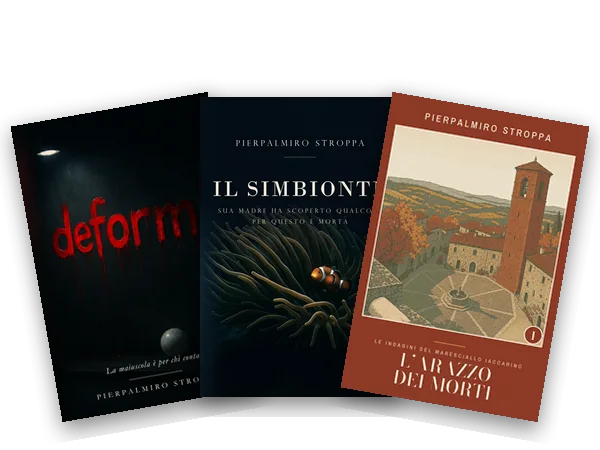
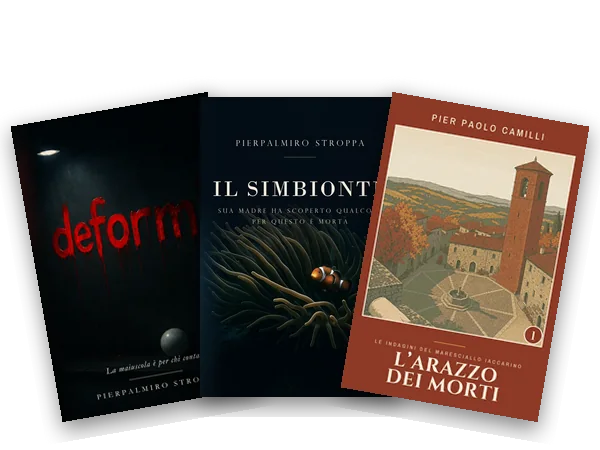
Aggiornamento del 15/11/2026

Changed region(s): [[0.63, 0.7778, 0.84, 0.9022], [0.69, 0.2489, 0.93, 0.3111]]

diff --git a/es/index.html b/es/index.html
@@ -32,7 +32,7 @@
 <meta name="twitter:card" content="summary_large_image">
 <link rel="preload" href="../font/EBGaramond-latin.woff2" as="font" type="font/woff2" crossorigin>
 <link rel="stylesheet" href="../ingresso.css?v=c2b1cbba">
-<script type="application/ld+json">{"@context":"https://schema.org","@graph":[{"@type":"WebSite","name":"Intrecci di Carta","alternateName":"Intrecci di Carta · Libros, juegos de cartas y videojuegos","url":"https://intreccidicarta.com/","inLanguage":"es"},{"@type":"Organization","name":"Intrecci di Carta","url":"https://intreccidicarta.com/","logo":"https://intreccidicarta.com/img/marchio/ic.png","email":"info@intreccidicarta.com","founder":{"@type":"Person","name":"Pierpalmiro Stroppa"},"sameAs":["https://intreccidicarta.com/libri/","https://intreccidicarta.com/carte/"]}]}</script>
+<script type="application/ld+json">{"@context":"https://schema.org","@graph":[{"@type":"WebSite","name":"Intrecci di Carta","alternateName":"Intrecci di Carta · Libros, juegos de cartas y videojuegos","url":"https://intreccidicarta.com/","inLanguage":"es"},{"@type":"Organization","name":"Intrecci di Carta","url":"https://intreccidicarta.com/","logo":"https://intreccidicarta.com/img/marchio/ic.png","email":"info@intreccidicarta.com","sameAs":["https://intreccidicarta.com/libri/","https://intreccidicarta.com/carte/"]}]}</script>
 <script>/* chi ha già scelto una lingua la ritrova */try{var s=localStorage.getItem('lingua'),m={"en":"../","it":"../it/","fr":"../fr/","de":"../de/","es":"../es/","zh":"../zh/"};if(s&&s!=='es'&&m[s])location.replace(m[s])}catch(e){}</script>
 <script src="../sito.js?v=8292f024" defer></script>
 </head>
@@ -56,7 +56,7 @@
     <a class="cv" href="https://intreccidicarta.com/libri/es/" style="--i:0;--r:-14deg;--y:46px;--acc:#c9a86a">
       <span class="cv-img"><img src="../img/ingresso/libri.webp" width="600" height="450" alt=""></span>
       <span class="cv-corpo">
-        <span class="cv-sopra">de Pierpalmiro Stroppa</span>
+        <span class="cv-sopra">de P. Stroppa y Pier Paolo Camilli</span>
         <h2 class="cv-nome">Libros</h2>
         <span class="cv-testo">Novelas y policíacas: thrillers, distopías, fantasía y las investigaciones del maresciallo Iaccarino.</span>
         <span class="cv-vai">Entrar →</span>

diff --git a/zh/index.html b/zh/index.html
@@ -32,7 +32,7 @@
 <meta name="twitter:card" content="summary_large_image">
 <link rel="preload" href="../font/EBGaramond-latin.woff2" as="font" type="font/woff2" crossorigin>
 <link rel="stylesheet" href="../ingresso.css?v=c2b1cbba">
-<script type="application/ld+json">{"@context":"https://schema.org","@graph":[{"@type":"WebSite","name":"Intrecci di Carta","alternateName":"Intrecci di Carta · 图书、纸牌游戏与电子游戏","url":"https://intreccidicarta.com/","inLanguage":"zh-Hans"},{"@type":"Organization","name":"Intrecci di Carta","url":"https://intreccidicarta.com/","logo":"https://intreccidicarta.com/img/marchio/ic.png","email":"info@intreccidicarta.com","founder":{"@type":"Person","name":"Pierpalmiro Stroppa"},"sameAs":["https://intreccidicarta.com/libri/","https://intreccidicarta.com/carte/"]}]}</script>
+<script type="application/ld+json">{"@context":"https://schema.org","@graph":[{"@type":"WebSite","name":"Intrecci di Carta","alternateName":"Intrecci di Carta · 图书、纸牌游戏与电子游戏","url":"https://intreccidicarta.com/","inLanguage":"zh-Hans"},{"@type":"Organization","name":"Intrecci di Carta","url":"https://intreccidicarta.com/","logo":"https://intreccidicarta.com/img/marchio/ic.png","email":"info@intreccidicarta.com","sameAs":["https://intreccidicarta.com/libri/","https://intreccidicarta.com/carte/"]}]}</script>
 <script>/* chi ha già scelto una lingua la ritrova */try{var s=localStorage.getItem('lingua'),m={"en":"../","it":"../it/","fr":"../fr/","de":"../de/","es":"../es/","zh":"../zh/"};if(s&&s!=='zh'&&m[s])location.replace(m[s])}catch(e){}</script>
 <script src="../sito.js?v=8292f024" defer></script>
 </head>
@@ -56,7 +56,7 @@
     <a class="cv" href="https://intreccidicarta.com/libri/zh/" style="--i:0;--r:-14deg;--y:46px;--acc:#c9a86a">
       <span class="cv-img"><img src="../img/ingresso/libri.webp" width="600" height="450" alt=""></span>
       <span class="cv-corpo">
-        <span class="cv-sopra">Pierpalmiro Stroppa 著</span>
+        <span class="cv-sopra">P. Stroppa 与 Pier Paolo Camilli 著</span>
         <h2 class="cv-nome">图书</h2>
         <span class="cv-testo">小说与推理小说：惊悚、反乌托邦、奇幻，以及亚卡里诺准尉的探案。</span>
         <span class="cv-vai">进入 →</span>

diff --git a/de/index.html b/de/index.html
@@ -32,7 +32,7 @@
 <meta name="twitter:card" content="summary_large_image">
 <link rel="preload" href="../font/EBGaramond-latin.woff2" as="font" type="font/woff2" crossorigin>
 <link rel="stylesheet" href="../ingresso.css?v=c2b1cbba">
-<script type="application/ld+json">{"@context":"https://schema.org","@graph":[{"@type":"WebSite","name":"Intrecci di Carta","alternateName":"Intrecci di Carta · Bücher, Kartenspiele und Videospiele","url":"https://intreccidicarta.com/","inLanguage":"de"},{"@type":"Organization","name":"Intrecci di Carta","url":"https://intreccidicarta.com/","logo":"https://intreccidicarta.com/img/marchio/ic.png","email":"info@intreccidicarta.com","founder":{"@type":"Person","name":"Pierpalmiro Stroppa"},"sameAs":["https://intreccidicarta.com/libri/","https://intreccidicarta.com/carte/"]}]}</script>
+<script type="application/ld+json">{"@context":"https://schema.org","@graph":[{"@type":"WebSite","name":"Intrecci di Carta","alternateName":"Intrecci di Carta · Bücher, Kartenspiele und Videospiele","url":"https://intreccidicarta.com/","inLanguage":"de"},{"@type":"Organization","name":"Intrecci di Carta","url":"https://intreccidicarta.com/","logo":"https://intreccidicarta.com/img/marchio/ic.png","email":"info@intreccidicarta.com","sameAs":["https://intreccidicarta.com/libri/","https://intreccidicarta.com/carte/"]}]}</script>
 <script>/* chi ha già scelto una lingua la ritrova */try{var s=localStorage.getItem('lingua'),m={"en":"../","it":"../it/","fr":"../fr/","de":"../de/","es":"../es/","zh":"../zh/"};if(s&&s!=='de'&&m[s])location.replace(m[s])}catch(e){}</script>
 <script src="../sito.js?v=8292f024" defer></script>
 </head>
@@ -56,7 +56,7 @@
     <a class="cv" href="https://intreccidicarta.com/libri/de/" style="--i:0;--r:-14deg;--y:46px;--acc:#c9a86a">
       <span class="cv-img"><img src="../img/ingresso/libri.webp" width="600" height="450" alt=""></span>
       <span class="cv-corpo">
-        <span class="cv-sopra">von Pierpalmiro Stroppa</span>
+        <span class="cv-sopra">von P. Stroppa und Pier Paolo Camilli</span>
         <h2 class="cv-nome">Bücher</h2>
         <span class="cv-testo">Romane und Krimis: Thriller, Dystopien, Fantasy und die Ermittlungen von Maresciallo Iaccarino.</span>
         <span class="cv-vai">Entdecken →</span>

diff --git a/fr/index.html b/fr/index.html
@@ -32,7 +32,7 @@
 <meta name="twitter:card" content="summary_large_image">
 <link rel="preload" href="../font/EBGaramond-latin.woff2" as="font" type="font/woff2" crossorigin>
 <link rel="stylesheet" href="../ingresso.css?v=c2b1cbba">
-<script type="application/ld+json">{"@context":"https://schema.org","@graph":[{"@type":"WebSite","name":"Intrecci di Carta","alternateName":"Intrecci di Carta · Livres, jeux de cartes et jeux vidéo","url":"https://intreccidicarta.com/","inLanguage":"fr"},{"@type":"Organization","name":"Intrecci di Carta","url":"https://intreccidicarta.com/","logo":"https://intreccidicarta.com/img/marchio/ic.png","email":"info@intreccidicarta.com","founder":{"@type":"Person","name":"Pierpalmiro Stroppa"},"sameAs":["https://intreccidicarta.com/libri/","https://intreccidicarta.com/carte/"]}]}</script>
+<script type="application/ld+json">{"@context":"https://schema.org","@graph":[{"@type":"WebSite","name":"Intrecci di Carta","alternateName":"Intrecci di Carta · Livres, jeux de cartes et jeux vidéo","url":"https://intreccidicarta.com/","inLanguage":"fr"},{"@type":"Organization","name":"Intrecci di Carta","url":"https://intreccidicarta.com/","logo":"https://intreccidicarta.com/img/marchio/ic.png","email":"info@intreccidicarta.com","sameAs":["https://intreccidicarta.com/libri/","https://intreccidicarta.com/carte/"]}]}</script>
 <script>/* chi ha già scelto una lingua la ritrova */try{var s=localStorage.getItem('lingua'),m={"en":"../","it":"../it/","fr":"../fr/","de":"../de/","es":"../es/","zh":"../zh/"};if(s&&s!=='fr'&&m[s])location.replace(m[s])}catch(e){}</script>
 <script src="../sito.js?v=8292f024" defer></script>
 </head>
@@ -56,7 +56,7 @@
     <a class="cv" href="https://intreccidicarta.com/libri/fr/" style="--i:0;--r:-14deg;--y:46px;--acc:#c9a86a">
       <span class="cv-img"><img src="../img/ingresso/libri.webp" width="600" height="450" alt=""></span>
       <span class="cv-corpo">
-        <span class="cv-sopra">par Pierpalmiro Stroppa</span>
+        <span class="cv-sopra">par P. Stroppa et Pier Paolo Camilli</span>
         <h2 class="cv-nome">Livres</h2>
         <span class="cv-testo">Romans et polars : thrillers, dystopies, fantasy et les enquêtes du maresciallo Iaccarino.</span>
         <span class="cv-vai">Entrer →</span>

diff --git a/it/index.html b/it/index.html
@@ -32,7 +32,7 @@
 <meta name="twitter:card" content="summary_large_image">
 <link rel="preload" href="../font/EBGaramond-latin.woff2" as="font" type="font/woff2" crossorigin>
 <link rel="stylesheet" href="../ingresso.css?v=c2b1cbba">
-<script type="application/ld+json">{"@context":"https://schema.org","@graph":[{"@type":"WebSite","name":"Intrecci di Carta","alternateName":"Intrecci di Carta · Libri, giochi di carte e videogiochi","url":"https://intreccidicarta.com/","inLanguage":"it"},{"@type":"Organization","name":"Intrecci di Carta","url":"https://intreccidicarta.com/","logo":"https://intreccidicarta.com/img/marchio/ic.png","email":"info@intreccidicarta.com","founder":{"@type":"Person","name":"Pierpalmiro Stroppa"},"sameAs":["https://intreccidicarta.com/libri/","https://intreccidicarta.com/carte/"]}]}</script>
+<script type="application/ld+json">{"@context":"https://schema.org","@graph":[{"@type":"WebSite","name":"Intrecci di Carta","alternateName":"Intrecci di Carta · Libri, giochi di carte e videogiochi","url":"https://intreccidicarta.com/","inLanguage":"it"},{"@type":"Organization","name":"Intrecci di Carta","url":"https://intreccidicarta.com/","logo":"https://intreccidicarta.com/img/marchio/ic.png","email":"info@intreccidicarta.com","sameAs":["https://intreccidicarta.com/libri/","https://intreccidicarta.com/carte/"]}]}</script>
 <script>/* chi ha già scelto una lingua la ritrova */try{var s=localStorage.getItem('lingua'),m={"en":"../","it":"../it/","fr":"../fr/","de":"../de/","es":"../es/","zh":"../zh/"};if(s&&s!=='it'&&m[s])location.replace(m[s])}catch(e){}</script>
 <script src="../sito.js?v=8292f024" defer></script>
 </head>
@@ -56,7 +56,7 @@
     <a class="cv" href="https://intreccidicarta.com/libri/" style="--i:0;--r:-14deg;--y:46px;--acc:#c9a86a">
       <span class="cv-img"><img src="../img/ingresso/libri.webp" width="600" height="450" alt=""></span>
       <span class="cv-corpo">
-        <span class="cv-sopra">di Pierpalmiro Stroppa</span>
+        <span class="cv-sopra">di P. Stroppa e Pier Paolo Camilli</span>
         <h2 class="cv-nome">Libri</h2>
         <span class="cv-testo">Romanzi e gialli: thriller, distopie, fantasy e le indagini del maresciallo Iaccarino.</span>
         <span class="cv-vai">Entra →</span>

diff --git a/index.html b/index.html
@@ -32,7 +32,7 @@
 <meta name="twitter:card" content="summary_large_image">
 <link rel="preload" href="font/EBGaramond-latin.woff2" as="font" type="font/woff2" crossorigin>
 <link rel="stylesheet" href="ingresso.css?v=c2b1cbba">
-<script type="application/ld+json">{"@context":"https://schema.org","@graph":[{"@type":"WebSite","name":"Intrecci di Carta","alternateName":"Intrecci di Carta · Books, card games and video games","url":"https://intreccidicarta.com/","inLanguage":"en"},{"@type":"Organization","name":"Intrecci di Carta","url":"https://intreccidicarta.com/","logo":"https://intreccidicarta.com/img/marchio/ic.png","email":"info@intreccidicarta.com","founder":{"@type":"Person","name":"Pierpalmiro Stroppa"},"sameAs":["https://intreccidicarta.com/libri/","https://intreccidicarta.com/carte/"]}]}</script>
+<script type="application/ld+json">{"@context":"https://schema.org","@graph":[{"@type":"WebSite","name":"Intrecci di Carta","alternateName":"Intrecci di Carta · Books, card games and video games","url":"https://intreccidicarta.com/","inLanguage":"en"},{"@type":"Organization","name":"Intrecci di Carta","url":"https://intreccidicarta.com/","logo":"https://intreccidicarta.com/img/marchio/ic.png","email":"info@intreccidicarta.com","sameAs":["https://intreccidicarta.com/libri/","https://intreccidicarta.com/carte/"]}]}</script>
 <script>/* chi ha già scelto una lingua la ritrova */try{var s=localStorage.getItem('lingua'),m={"en":"./","it":"it/","fr":"fr/","de":"de/","es":"es/","zh":"zh/"};if(s&&s!=='en'&&m[s])location.replace(m[s])}catch(e){}</script>
 <script src="sito.js?v=8292f024" defer></script>
 </head>
@@ -56,7 +56,7 @@
     <a class="cv" href="https://intreccidicarta.com/libri/en/" style="--i:0;--r:-14deg;--y:46px;--acc:#c9a86a">
       <span class="cv-img"><img src="img/ingresso/libri.webp" width="600" height="450" alt=""></span>
       <span class="cv-corpo">
-        <span class="cv-sopra">by Pierpalmiro Stroppa</span>
+        <span class="cv-sopra">by P. Stroppa and Pier Paolo Camilli</span>
         <h2 class="cv-nome">Books</h2>
         <span class="cv-testo">Novels and mysteries: thrillers, dystopias, fantasy and the Maresciallo Iaccarino investigations.</span>
         <span class="cv-vai">Enter →</span>

diff --git a/zh/games/index.html b/zh/games/index.html
@@ -32,7 +32,7 @@
 <meta name="twitter:card" content="summary_large_image">
 <link rel="preload" href="../../font/lilitaone-latin.woff2" as="font" type="font/woff2" crossorigin>
 <link rel="stylesheet" href="../../stile.css?v=81c3585d">
-<script type="application/ld+json">{"@context":"https://schema.org","@graph":[{"@type":"WebSite","name":"Intrecci di Carta","alternateName":"Intrecci di Carta · 电子游戏","url":"https://intreccidicarta.com/","inLanguage":"zh-Hans"},{"@type":"Organization","name":"Intrecci di Carta","url":"https://intreccidicarta.com/","logo":"https://intreccidicarta.com/img/marchio/ic.png","email":"info@intreccidicarta.com","founder":{"@type":"Person","name":"Pierpalmiro Stroppa"},"sameAs":["https://intreccidicarta.com/libri/","https://intreccidicarta.com/carte/"]}]}</script>
+<script type="application/ld+json">{"@context":"https://schema.org","@graph":[{"@type":"WebSite","name":"Intrecci di Carta","alternateName":"Intrecci di Carta · 电子游戏","url":"https://intreccidicarta.com/","inLanguage":"zh-Hans"},{"@type":"Organization","name":"Intrecci di Carta","url":"https://intreccidicarta.com/","logo":"https://intreccidicarta.com/img/marchio/ic.png","email":"info@intreccidicarta.com","sameAs":["https://intreccidicarta.com/libri/","https://intreccidicarta.com/carte/"]}]}</script>
 <script>/* chi ha già scelto una lingua la ritrova */try{var s=localStorage.getItem('lingua'),m={"en":"../../games/","it":"../../it/games/","fr":"../../fr/games/","de":"../../de/games/","es":"../../es/games/","zh":"../../zh/games/"};if(s&&s!=='zh'&&m[s])location.replace(m[s])}catch(e){}</script>
 <script src="../../sito.js?v=8292f024" defer></script>
 </head>

diff --git a/de/games/index.html b/de/games/index.html
@@ -32,7 +32,7 @@
 <meta name="twitter:card" content="summary_large_image">
 <link rel="preload" href="../../font/lilitaone-latin.woff2" as="font" type="font/woff2" crossorigin>
 <link rel="stylesheet" href="../../stile.css?v=81c3585d">
-<script type="application/ld+json">{"@context":"https://schema.org","@graph":[{"@type":"WebSite","name":"Intrecci di Carta","alternateName":"Intrecci di Carta · Videospiele","url":"https://intreccidicarta.com/","inLanguage":"de"},{"@type":"Organization","name":"Intrecci di Carta","url":"https://intreccidicarta.com/","logo":"https://intreccidicarta.com/img/marchio/ic.png","email":"info@intreccidicarta.com","founder":{"@type":"Person","name":"Pierpalmiro Stroppa"},"sameAs":["https://intreccidicarta.com/libri/","https://intreccidicarta.com/carte/"]}]}</script>
+<script type="application/ld+json">{"@context":"https://schema.org","@graph":[{"@type":"WebSite","name":"Intrecci di Carta","alternateName":"Intrecci di Carta · Videospiele","url":"https://intreccidicarta.com/","inLanguage":"de"},{"@type":"Organization","name":"Intrecci di Carta","url":"https://intreccidicarta.com/","logo":"https://intreccidicarta.com/img/marchio/ic.png","email":"info@intreccidicarta.com","sameAs":["https://intreccidicarta.com/libri/","https://intreccidicarta.com/carte/"]}]}</script>
 <script>/* chi ha già scelto una lingua la ritrova */try{var s=localStorage.getItem('lingua'),m={"en":"../../games/","it":"../../it/games/","fr":"../../fr/games/","de":"../../de/games/","es":"../../es/games/","zh":"../../zh/games/"};if(s&&s!=='de'&&m[s])location.replace(m[s])}catch(e){}</script>
 <script src="../../sito.js?v=8292f024" defer></script>
 </head>

diff --git a/es/games/index.html b/es/games/index.html
@@ -32,7 +32,7 @@
 <meta name="twitter:card" content="summary_large_image">
 <link rel="preload" href="../../font/lilitaone-latin.woff2" as="font" type="font/woff2" crossorigin>
 <link rel="stylesheet" href="../../stile.css?v=81c3585d">
-<script type="application/ld+json">{"@context":"https://schema.org","@graph":[{"@type":"WebSite","name":"Intrecci di Carta","alternateName":"Intrecci di Carta · Videojuegos","url":"https://intreccidicarta.com/","inLanguage":"es"},{"@type":"Organization","name":"Intrecci di Carta","url":"https://intreccidicarta.com/","logo":"https://intreccidicarta.com/img/marchio/ic.png","email":"info@intreccidicarta.com","founder":{"@type":"Person","name":"Pierpalmiro Stroppa"},"sameAs":["https://intreccidicarta.com/libri/","https://intreccidicarta.com/carte/"]}]}</script>
+<script type="application/ld+json">{"@context":"https://schema.org","@graph":[{"@type":"WebSite","name":"Intrecci di Carta","alternateName":"Intrecci di Carta · Videojuegos","url":"https://intreccidicarta.com/","inLanguage":"es"},{"@type":"Organization","name":"Intrecci di Carta","url":"https://intreccidicarta.com/","logo":"https://intreccidicarta.com/img/marchio/ic.png","email":"info@intreccidicarta.com","sameAs":["https://intreccidicarta.com/libri/","https://intreccidicarta.com/carte/"]}]}</script>
 <script>/* chi ha già scelto una lingua la ritrova */try{var s=localStorage.getItem('lingua'),m={"en":"../../games/","it":"../../it/games/","fr":"../../fr/games/","de":"../../de/games/","es":"../../es/games/","zh":"../../zh/games/"};if(s&&s!=='es'&&m[s])location.replace(m[s])}catch(e){}</script>
 <script src="../../sito.js?v=8292f024" defer></script>
 </head>

diff --git a/fr/games/index.html b/fr/games/index.html
@@ -32,7 +32,7 @@
 <meta name="twitter:card" content="summary_large_image">
 <link rel="preload" href="../../font/lilitaone-latin.woff2" as="font" type="font/woff2" crossorigin>
 <link rel="stylesheet" href="../../stile.css?v=81c3585d">
-<script type="application/ld+json">{"@context":"https://schema.org","@graph":[{"@type":"WebSite","name":"Intrecci di Carta","alternateName":"Intrecci di Carta · Jeux vidéo","url":"https://intreccidicarta.com/","inLanguage":"fr"},{"@type":"Organization","name":"Intrecci di Carta","url":"https://intreccidicarta.com/","logo":"https://intreccidicarta.com/img/marchio/ic.png","email":"info@intreccidicarta.com","founder":{"@type":"Person","name":"Pierpalmiro Stroppa"},"sameAs":["https://intreccidicarta.com/libri/","https://intreccidicarta.com/carte/"]}]}</script>
+<script type="application/ld+json">{"@context":"https://schema.org","@graph":[{"@type":"WebSite","name":"Intrecci di Carta","alternateName":"Intrecci di Carta · Jeux vidéo","url":"https://intreccidicarta.com/","inLanguage":"fr"},{"@type":"Organization","name":"Intrecci di Carta","url":"https://intreccidicarta.com/","logo":"https://intreccidicarta.com/img/marchio/ic.png","email":"info@intreccidicarta.com","sameAs":["https://intreccidicarta.com/libri/","https://intreccidicarta.com/carte/"]}]}</script>
 <script>/* chi ha già scelto una lingua la ritrova */try{var s=localStorage.getItem('lingua'),m={"en":"../../games/","it":"../../it/games/","fr":"../../fr/games/","de":"../../de/games/","es":"../../es/games/","zh":"../../zh/games/"};if(s&&s!=='fr'&&m[s])location.replace(m[s])}catch(e){}</script>
 <script src="../../sito.js?v=8292f024" defer></script>
 </head>

diff --git a/it/games/index.html b/it/games/index.html
@@ -32,7 +32,7 @@
 <meta name="twitter:card" content="summary_large_image">
 <link rel="preload" href="../../font/lilitaone-latin.woff2" as="font" type="font/woff2" crossorigin>
 <link rel="stylesheet" href="../../stile.css?v=81c3585d">
-<script type="application/ld+json">{"@context":"https://schema.org","@graph":[{"@type":"WebSite","name":"Intrecci di Carta","alternateName":"Intrecci di Carta · Videogiochi","url":"https://intreccidicarta.com/","inLanguage":"it"},{"@type":"Organization","name":"Intrecci di Carta","url":"https://intreccidicarta.com/","logo":"https://intreccidicarta.com/img/marchio/ic.png","email":"info@intreccidicarta.com","founder":{"@type":"Person","name":"Pierpalmiro Stroppa"},"sameAs":["https://intreccidicarta.com/libri/","https://intreccidicarta.com/carte/"]}]}</script>
+<script type="application/ld+json">{"@context":"https://schema.org","@graph":[{"@type":"WebSite","name":"Intrecci di Carta","alternateName":"Intrecci di Carta · Videogiochi","url":"https://intreccidicarta.com/","inLanguage":"it"},{"@type":"Organization","name":"Intrecci di Carta","url":"https://intreccidicarta.com/","logo":"https://intreccidicarta.com/img/marchio/ic.png","email":"info@intreccidicarta.com","sameAs":["https://intreccidicarta.com/libri/","https://intreccidicarta.com/carte/"]}]}</script>
 <script>/* chi ha già scelto una lingua la ritrova */try{var s=localStorage.getItem('lingua'),m={"en":"../../games/","it":"../../it/games/","fr":"../../fr/games/","de":"../../de/games/","es":"../../es/games/","zh":"../../zh/games/"};if(s&&s!=='it'&&m[s])location.replace(m[s])}catch(e){}</script>
 <script src="../../sito.js?v=8292f024" defer></script>
 </head>

diff --git a/games/index.html b/games/index.html
@@ -32,7 +32,7 @@
 <meta name="twitter:card" content="summary_large_image">
 <link rel="preload" href="../font/lilitaone-latin.woff2" as="font" type="font/woff2" crossorigin>
 <link rel="stylesheet" href="../stile.css?v=81c3585d">
-<script type="application/ld+json">{"@context":"https://schema.org","@graph":[{"@type":"WebSite","name":"Intrecci di Carta","alternateName":"Intrecci di Carta · Video games","url":"https://intreccidicarta.com/","inLanguage":"en"},{"@type":"Organization","name":"Intrecci di Carta","url":"https://intreccidicarta.com/","logo":"https://intreccidicarta.com/img/marchio/ic.png","email":"info@intreccidicarta.com","founder":{"@type":"Person","name":"Pierpalmiro Stroppa"},"sameAs":["https://intreccidicarta.com/libri/","https://intreccidicarta.com/carte/"]}]}</script>
+<script type="application/ld+json">{"@context":"https://schema.org","@graph":[{"@type":"WebSite","name":"Intrecci di Carta","alternateName":"Intrecci di Carta · Video games","url":"https://intreccidicarta.com/","inLanguage":"en"},{"@type":"Organization","name":"Intrecci di Carta","url":"https://intreccidicarta.com/","logo":"https://intreccidicarta.com/img/marchio/ic.png","email":"info@intreccidicarta.com","sameAs":["https://intreccidicarta.com/libri/","https://intreccidicarta.com/carte/"]}]}</script>
 <script>/* chi ha già scelto una lingua la ritrova */try{var s=localStorage.getItem('lingua'),m={"en":"../games/","it":"../it/games/","fr":"../fr/games/","de":"../de/games/","es":"../es/games/","zh":"../zh/games/"};if(s&&s!=='en'&&m[s])location.replace(m[s])}catch(e){}</script>
 <script src="../sito.js?v=8292f024" defer></script>
 </head>
